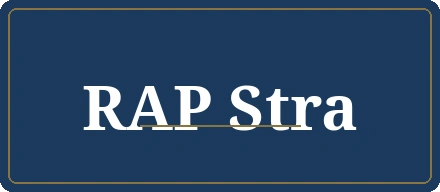
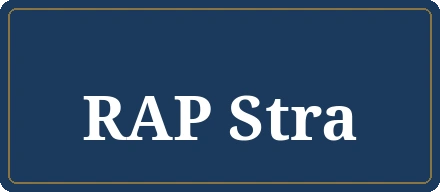
Dynamisches Header-Layout: Desktop/Burger je nach verfügbarem Platz
Navigation wechselt automatisch zwischen Desktop- und Burger-Modus
basierend auf tatsächlichen Elementbreiten statt fester Breakpoints.
Logo-Text in 3 Stufen: "Baustoffprüfung GmbH" → "Baustoffprüfung" → nur Logo.
RAP-Stra-Logo ohne Artefakt neu generiert.

Changed region(s): [[0.1773, 0.4375, 0.8273, 0.75]]

diff --git a/script.js b/script.js
@@ -81,43 +81,74 @@
   var headerLogo = document.querySelector('.logo');
   var heroLogoImg = document.querySelector('.hero-logo');
 
-  // Measure header logo's natural position (without transforms)
+  // Measure header layout and toggle desktop/mobile nav
   var logoNaturalCenterX = 0;
   var logoText = document.querySelector('.logo-text');
-  function measureLogo() {
+  var logoSuffix = logoText ? logoText.querySelector('.logo-suffix') : null;
+
+  function measureHeader() {
     var prev = headerLogo.style.cssText;
     headerLogo.style.cssText = 'opacity:1; transform:none; pointer-events:none;';
+
+    // Einzelbreiten messen
+    var logoImg = headerLogo.querySelector('img');
+    var logoGap = parseFloat(getComputedStyle(headerLogo).gap) || 0;
+    var imgW = logoImg ? logoImg.offsetWidth : 0;
+    var headerRight = header.querySelector('.header-right');
+    var containerPad = parseFloat(getComputedStyle(header.querySelector('.header-inner')).paddingLeft) * 2 || 0;
+    var totalW = window.innerWidth - containerPad;
+    var buffer = 16;
+
+    // Textbreiten messen (unsichtbar, aber im DOM)
+    if (logoText) { logoText.style.display = ''; logoText.style.fontSize = ''; }
+    if (logoSuffix) logoSuffix.style.display = 'inline';
+    var fullTextW = logoText ? logoText.scrollWidth : 0;
+    if (logoSuffix) logoSuffix.style.display = 'none';
+    var shortTextW = logoText ? logoText.scrollWidth : 0;
+    if (logoSuffix) logoSuffix.style.display = 'inline';
+
+    // Nav-Breite messen (im Desktop-Modus)
+    header.classList.add('desktop-nav');
+    var navW = nav.scrollWidth;
+
+    // Desktop: Logo + Text + Nav <= Fensterbreite?
+    var logoBase = imgW + logoGap;
+    var desktopLevel = -1;
+    if (logoBase + fullTextW + navW + buffer <= totalW) desktopLevel = 0;
+    else if (logoBase + shortTextW + navW + buffer <= totalW) desktopLevel = 1;
+    else if (logoBase + navW + buffer <= totalW) desktopLevel = 2;
+
+    if (desktopLevel >= 0) {
+      // Desktop-Modus
+      nav.classList.remove('open');
+      menuToggle.classList.remove('open');
+      if (logoText) logoText.style.display = desktopLevel < 2 ? '' : 'none';
+      if (logoSuffix) logoSuffix.style.display = desktopLevel === 0 ? 'inline' : 'none';
+    } else {
+      // Burger-Modus
+      header.classList.remove('desktop-nav');
+      var rightW = headerRight ? headerRight.offsetWidth : 0;
+      var available = totalW - rightW - logoBase - buffer;
+
+      if (fullTextW <= available) {
+        if (logoText) logoText.style.display = '';
+        if (logoSuffix) logoSuffix.style.display = 'inline';
+      } else if (shortTextW <= available) {
+        if (logoText) logoText.style.display = '';
+        if (logoSuffix) logoSuffix.style.display = 'none';
+      } else {
+        if (logoText) logoText.style.display = 'none';
+      }
+    }
+
+    // Logo-Position messen (für Scroll-Animation)
     var rect = headerLogo.getBoundingClientRect();
     logoNaturalCenterX = rect.left + rect.width / 2;
 
-    // Dynamische Schriftgröße + GmbH ein-/ausblenden
-    if (logoText) {
-      var logoSuffix = logoText.querySelector('.logo-suffix');
-      var logoImg = headerLogo.querySelector('img');
-      var gap = parseFloat(getComputedStyle(headerLogo).gap) || 0;
-      var logoW = headerLogo.offsetWidth;
-      var imgW = logoImg ? logoImg.offsetWidth : 0;
-      var available = logoW - imgW - gap - 2;
-
-      // Erst mit GmbH versuchen
-      logoText.style.fontSize = '';
-      if (logoSuffix) logoSuffix.style.display = 'inline';
-      if (logoText.scrollWidth <= available) return void (headerLogo.style.cssText = prev);
-
-      // Passt nicht → GmbH ausblenden
-      if (logoSuffix) logoSuffix.style.display = 'none';
-      if (logoText.scrollWidth <= available) return void (headerLogo.style.cssText = prev);
-
-      // Immer noch zu breit → Schrift verkleinern
-      var maxSize = parseFloat(getComputedStyle(logoText).fontSize);
-      var size = maxSize * (available / logoText.scrollWidth);
-      logoText.style.fontSize = Math.max(8, size) + 'px';
-    }
-
     headerLogo.style.cssText = prev;
   }
-  measureLogo();
-  window.addEventListener('resize', measureLogo);
+  measureHeader();
+  window.addEventListener('resize', measureHeader);
 
   window.addEventListener('scroll', function () {
     var scrollY = window.scrollY;

diff --git a/style.css b/style.css
@@ -1211,13 +1211,13 @@ address { font-style: normal; }
 /* ============================================
    Tablet (>= 768px)
    ============================================ */
-@media (min-width: 768px) {
-  .header-inner { height: 72px; }
-  .menu-toggle { display: none; }
-  .mobile-action { display: none; }
-  .logo { flex: initial; min-width: auto; }
+/* Desktop-Navigation (dynamisch per JS gesteuert) */
+  .header.desktop-nav .header-inner { height: 72px; }
+  .header.desktop-nav .menu-toggle { display: none; }
+  .header.desktop-nav .mobile-action { display: none; }
+  .header.desktop-nav .logo { flex: initial; min-width: auto; }
 
-  .nav {
+  .header.desktop-nav .nav {
     display: flex;
     position: static;
     background: transparent;
@@ -1229,15 +1229,17 @@ address { font-style: normal; }
     border-bottom: none;
   }
 
-  .nav::before,
-  .nav::after {
+  .header.desktop-nav .nav::before,
+  .header.desktop-nav .nav::after {
     display: none;
   }
 
-  .nav-list { flex-direction: row; gap: 0; }
-  .nav-link { font-size: 0.85rem; padding: 8px 14px; }
-  .nav-social { margin-top: 0; margin-left: 16px; }
-  .nav-phone { margin-top: 0; margin-left: 8px; }
+  .header.desktop-nav .nav-list { flex-direction: row; gap: 0; }
+  .header.desktop-nav .nav-link { font-size: 0.85rem; padding: 8px 14px; white-space: nowrap; }
+  .header.desktop-nav .nav-social { margin-top: 0; margin-left: 16px; }
+  .header.desktop-nav .nav-phone { margin-top: 0; margin-left: 8px; white-space: nowrap; }
+
+@media (min-width: 768px) {
 
   .stats-grid { grid-template-columns: repeat(5, 1fr); }
   .stats { padding: 56px 0; }
